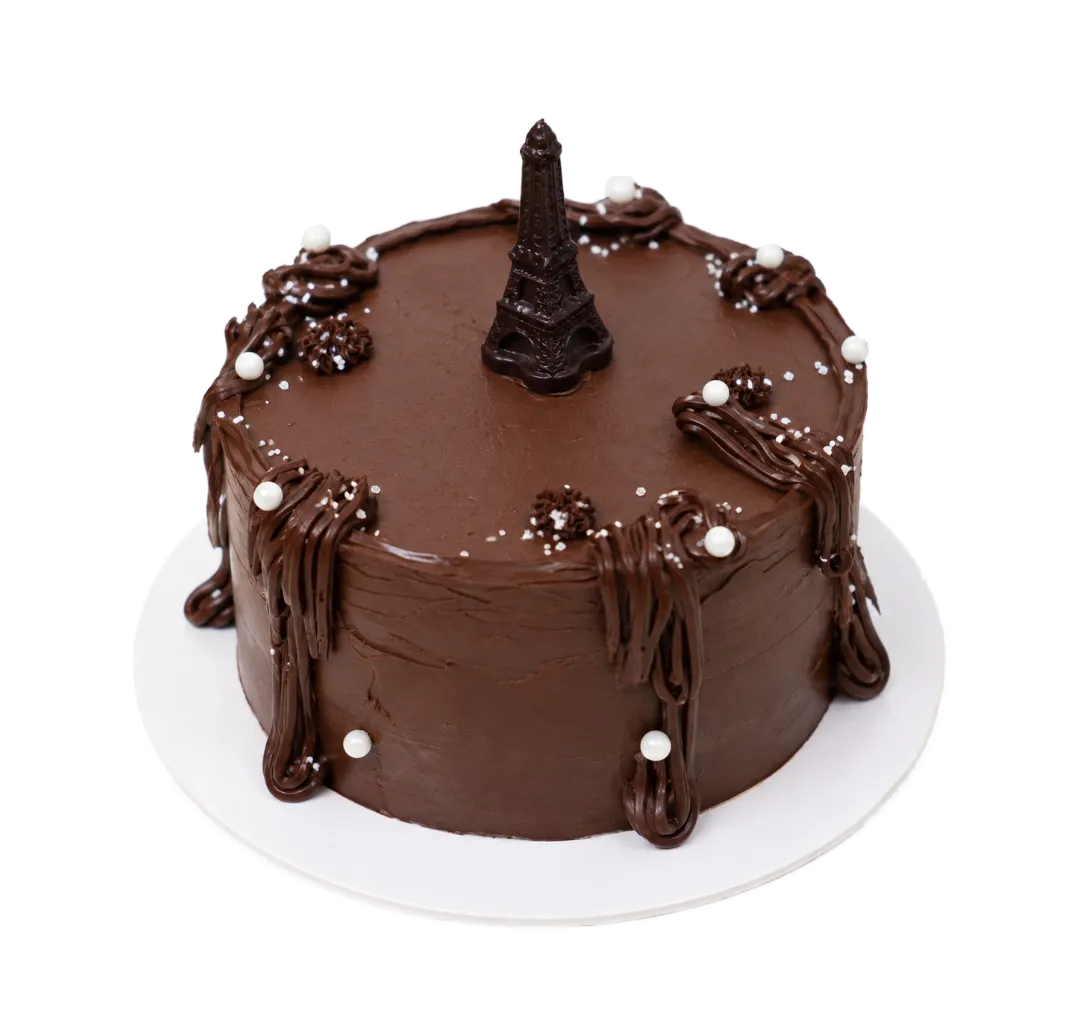
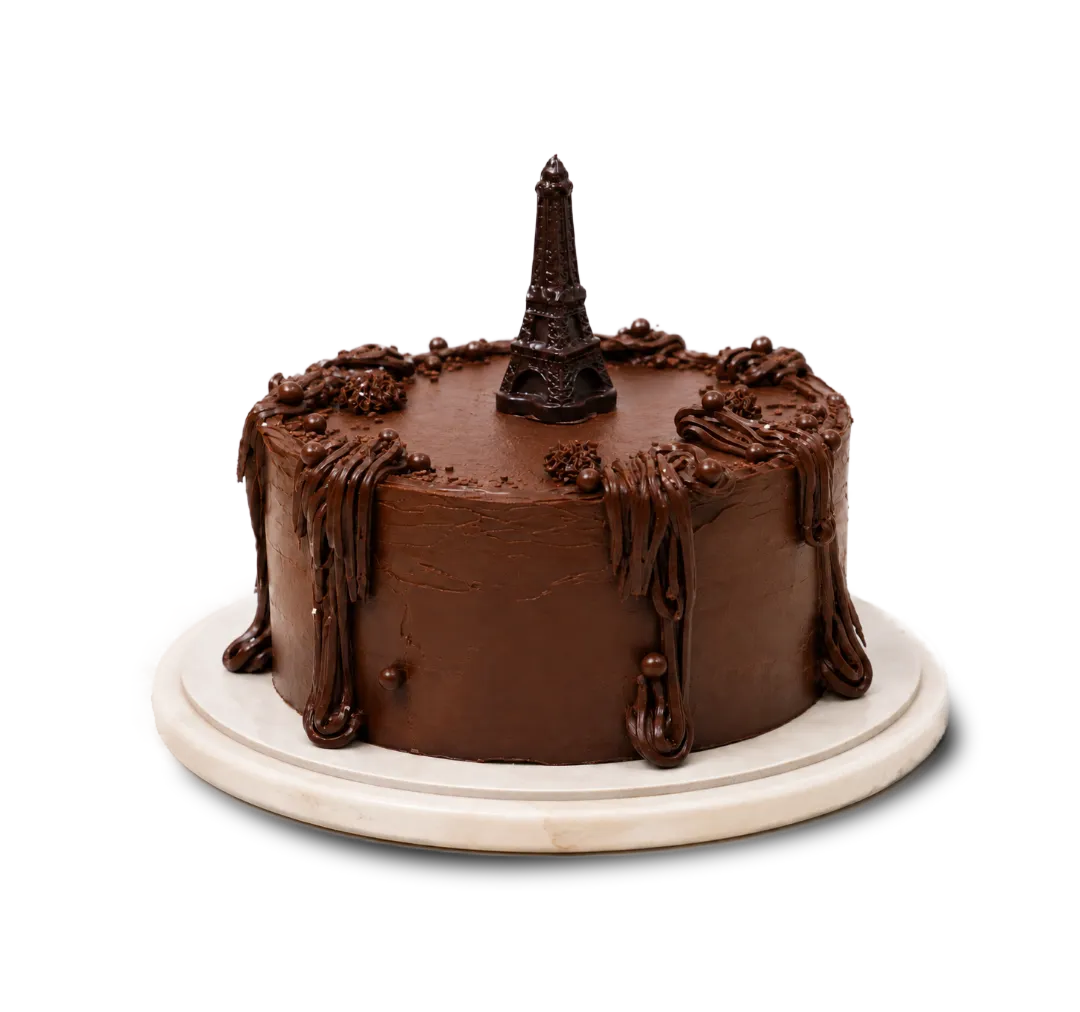
feat(au): refresh catalogue photos and couverture copy

Changed region(s): [[0.1222, 0.1225, 0.9167, 0.919]]

diff --git a/src/pages/HomePage.tsx b/src/pages/HomePage.tsx
@@ -54,7 +54,7 @@ export function HomePage({
   const [quickViewCardId, setQuickViewCardId] = useState<string | null>(null)
   const [quickViewOpener, setQuickViewOpener] = useState<HTMLButtonElement | null>(null)
   const heroCakes = [
-    { image: getPublicCakePage('brownie-cheesecake')?.imagePath, label: 'Brownie Cheesecake', tagKey: 'brownie', className: 'hero-cake-one' },
+    { image: '/products/brownie-cheese-sydney.webp', label: 'Brownie Cheesecake', tagKey: 'brownie', className: 'hero-cake-one' },
     { image: heroCake2Img, label: 'Pave Chocolate Cake', tagKey: 'first', className: 'hero-cake-two' },
     { image: heroCake3Img, label: 'Signature Gâteau au Chocolat', tagKey: 'pound', className: 'hero-cake-three' },
     { image: getPublicCakePage('lemon-cake')?.imagePath, label: 'Lemon Cake', tagKey: 'lemon', className: 'hero-cake-four' },
@@ -202,11 +202,11 @@ export function HomePage({
             <h1 className="hero-title">{language === 'en' && publicHomeContent ? publicHomeContent.h1 : copy.homeTitle}</h1>
             <p className="hero-description">
               {language === 'ko' ? (
-                <><strong>verygood chocolate</strong>이 만드는 소량 생산 케이크를 Melrose Park 픽업 예약으로 만나보세요.</>
+                <><strong>verygood chocolate</strong>이 쇼콜라티에용 커버춰 초콜릿으로 만드는 케이크를 Melrose Park 픽업 예약으로 만나보세요.</>
               ) : publicHomeContent ? (
                 <>{publicHomeContent.hero}<br /><span>{publicHomeContent.pickup}</span></>
               ) : (
-                <>Small-batch cakes made by <strong>verygood chocolate</strong>,<br className="hero-description-break" /> available by pre-order for confirmed Melrose Park pick-up.</>
+                <>Cakes made with chocolatier-grade couverture chocolate by <strong>verygood chocolate</strong>,<br className="hero-description-break" /> available by pre-order for confirmed Melrose Park pick-up.</>
               )}
             </p>
             <div className="hero-actions">
@@ -429,12 +429,12 @@ export function HomePage({
         <section className="content-section cake-information-section" aria-labelledby="sydney-cake-info-title">
           <p className="summary-kicker">{language === 'ko' ? '시드니에서 직접 제작' : 'Made in Sydney'}</p>
           <h2 id="sydney-cake-info-title">
-            {language === 'ko' ? '예약 주문으로 준비하는 소량 제작 초콜릿 케이크' : 'Small-batch chocolate cakes for pre-order'}
+            {language === 'ko' ? '쇼콜라티에용 커버춰 초콜릿으로 만드는 주문 제작 케이크' : 'Chocolate cakes made with chocolatier-grade couverture chocolate'}
           </h2>
           <div className="cake-information-grid">
             <article>
               <h3>{language === 'ko' ? '초콜릿이 중심인 레시피' : 'Chocolate-first recipes'}</h3>
-              <p>{language === 'ko' ? '파베, 바닐라 생크림, 버터크림, 초콜릿 컵케이크, 시그니처 갸또 쇼콜라, 레몬 케이크, 브라우니 치즈케이크를 주문할 수 있어요. 확정된 주문에 맞춰 소량으로 준비합니다.' : 'Choose from Pave, Vanilla Fresh Cream, Buttercream, Chocolate Cupcakes, Signature Gâteau au Chocolat, Lemon Cake and Brownie Cheesecake. Each order is made in a small batch.'}</p>
+              <p>{language === 'ko' ? '파베, 바닐라 생크림, 버터크림, 초콜릿 컵케이크, 시그니처 갸또 쇼콜라, 레몬 케이크, 브라우니 치즈케이크를 주문할 수 있어요. 모든 주문은 쇼콜라티에용 커버춰 초콜릿을 사용해 준비합니다.' : 'Choose from Pave, Vanilla Fresh Cream, Buttercream, Chocolate Cupcakes, Signature Gâteau au Chocolat, Lemon Cake and Brownie Cheesecake. Every order is made with chocolatier-grade couverture chocolate.'}</p>
             </article>
             <article>
               <h3>{language === 'ko' ? '원하는 옵션 선택' : 'Choose your finish'}</h3>

diff --git a/src/CakeDetailPage.tsx b/src/CakeDetailPage.tsx
@@ -48,6 +48,7 @@ const detailImages: Record<CakeDetailImageKey, string> = {
   'pound-previous': '/products/details/chocolate-pound-cake-previous.webp',
   'pound-hero': poundHeroImg,
   'cupcake-side': '/products/chocolate-cupcakes-sydney.webp',
+  'cupcake-detail': '/products/details/chocolate-cupcakes-detail-01.webp',
   'cupcake-hero': cupcakeHeroImg,
   'pave-side': '/products/pave-chocolate-cake-sydney.webp',
   'pave-quick-view': '/products/details/pave-chocolate-cake-quick-view.webp',
@@ -67,12 +68,15 @@ const detailImages: Record<CakeDetailImageKey, string> = {
   'vanilla-side': '/products/vanilla-cake-sydney.webp',
   'vanilla-quick-view': '/products/details/vanillacake-quickview.webp',
   'buttercream-side': '/products/buttercream-cake-sydney.webp',
+  'buttercream-detail': '/products/details/buttercream-cake-detail-01.webp',
   'buttercream-quick-view': '/products/details/buttercream-cake-quick-view.webp',
-  'signature-gateau-side': '/products/chocolate-pound-cake-sydney.webp',
+  'signature-gateau-side': '/products/signature-gateau-au-chocolat-sydney.webp',
+  'signature-gateau-detail': '/products/details/signature-gateau-au-chocolat-detail-01.webp',
   'signature-gateau-quick-view': '/products/details/chocolate-pound-cake-quick-view.webp',
   'signature-gateau-previous': '/products/details/chocolate-pound-cake-previous.webp',
   'signature-gateau-hero': poundHeroImg,
-  'brownie-side': '/products/brownie-cheese-sydney.webp',
+  'brownie-side': '/products/brownie-cheesecake-sydney.webp',
+  'brownie-detail': '/products/details/brownie-cheesecake-detail-01.webp',
   'brownie-quick-view': '/products/details/brownie-cheese-quick-view.webp',
 }
 
@@ -82,6 +86,7 @@ const detailImageDimensions: Record<CakeDetailImageKey, { width: number; height:
   'pound-previous': { width: 1080, height: 1012 },
   'pound-hero': { width: 1080, height: 1012 },
   'cupcake-side': { width: 1080, height: 1012 },
+  'cupcake-detail': { width: 1080, height: 1012 },
   'cupcake-hero': { width: 1448, height: 1086 },
   'pave-side': { width: 1080, height: 1012 },
   'pave-quick-view': { width: 1080, height: 1012 },
@@ -101,12 +106,15 @@ const detailImageDimensions: Record<CakeDetailImageKey, { width: number; height:
   'vanilla-side': { width: 1080, height: 1012 },
   'vanilla-quick-view': { width: 1080, height: 1012 },
   'buttercream-side': { width: 1080, height: 1012 },
+  'buttercream-detail': { width: 1080, height: 1012 },
   'buttercream-quick-view': { width: 1080, height: 1012 },
   'signature-gateau-side': { width: 1080, height: 1012 },
+  'signature-gateau-detail': { width: 1080, height: 1012 },
   'signature-gateau-quick-view': { width: 1080, height: 1012 },
   'signature-gateau-previous': { width: 1080, height: 1012 },
   'signature-gateau-hero': { width: 1080, height: 1012 },
   'brownie-side': { width: 1080, height: 1012 },
+  'brownie-detail': { width: 1080, height: 1012 },
   'brownie-quick-view': { width: 1080, height: 1012 },
 }
 

diff --git a/src/lib/cake-detail.ts b/src/lib/cake-detail.ts
@@ -49,6 +49,7 @@ export type CakeDetailImageKey =
   | 'pound-previous'
   | 'pound-hero'
   | 'cupcake-side'
+  | 'cupcake-detail'
   | 'cupcake-hero'
   | 'pave-side'
   | 'pave-quick-view'
@@ -68,12 +69,15 @@ export type CakeDetailImageKey =
   | 'vanilla-side'
   | 'vanilla-quick-view'
   | 'buttercream-side'
+  | 'buttercream-detail'
   | 'buttercream-quick-view'
   | 'signature-gateau-side'
+  | 'signature-gateau-detail'
   | 'signature-gateau-quick-view'
   | 'signature-gateau-previous'
   | 'signature-gateau-hero'
   | 'brownie-side'
+  | 'brownie-detail'
   | 'brownie-quick-view'
 
 export type CakeDetailSelection = {
@@ -116,10 +120,10 @@ const DETAIL_GALLERIES: Record<CakeCatalogId, readonly CakeDetailImageKey[]> = {
   cheesecake: ['cheesecake-side', 'cheesecake-quick-view', 'cheesecake-previous', 'cheesecake-hero'],
   'fresh-lemon-cupcakes': ['lemon-side', 'lemon-quick-view', 'lemon-previous', 'lemon-hero'],
   'vanilla-fresh-cream': ['vanilla-side', 'vanilla-quick-view'],
-  buttercream: ['buttercream-side', 'buttercream-quick-view'],
-  cupcake: ['cupcake-side', 'cupcake-hero'],
-  'signature-gateau': ['signature-gateau-side', 'signature-gateau-quick-view', 'signature-gateau-previous', 'signature-gateau-hero'],
-  'brownie-cheesecake': ['brownie-side', 'brownie-quick-view'],
+  buttercream: ['buttercream-side', 'buttercream-detail', 'buttercream-quick-view'],
+  cupcake: ['cupcake-side', 'cupcake-detail', 'cupcake-hero'],
+  'signature-gateau': ['signature-gateau-side', 'signature-gateau-detail', 'signature-gateau-quick-view', 'signature-gateau-previous', 'signature-gateau-hero'],
+  'brownie-cheesecake': ['brownie-side', 'brownie-detail', 'brownie-quick-view'],
 }
 
 const LEGACY_CAKE_DETAILS = {
@@ -150,7 +154,7 @@ const DETAIL_OPERATION_COPY: Record<Language, {
   accordions: readonly { title: string; body: string }[]
 }> = {
   en: {
-    trustPoints: ['Small-batch', 'Made to order', 'Melrose Park pick-up'],
+    trustPoints: ['Chocolatier-grade couverture', 'Made to order', 'Melrose Park pick-up'],
     accordions: [
       {
         title: 'How ordering works',
@@ -167,7 +171,7 @@ const DETAIL_OPERATION_COPY: Record<Language, {
     ],
   },
   ko: {
-    trustPoints: ['소량 제작', '주문 후 제작', 'Melrose Park 픽업'],
+    trustPoints: ['쇼콜라티에용 커버춰 초콜릿', '주문 후 제작', 'Melrose Park 픽업'],
     accordions: [
       {
         title: '주문 방법',

diff --git a/index.html b/index.html
@@ -11,7 +11,7 @@
     <title>Chocolate Cakes Sydney | Melrose Park Pickup | verygood chocolate</title>
     <meta
       name="description"
-      content="Order small-batch cakes for pre-arranged pickup in Melrose Park, Sydney. Pave, fresh cream, buttercream, cupcakes, gâteau au chocolat, lemon cake and brownie cheesecake from AUD 31.00."
+      content="Order cakes made with chocolatier-grade couverture chocolate for pre-arranged pickup in Melrose Park, Sydney. Pave, fresh cream, buttercream, cupcakes, gâteau au chocolat, lemon cake and brownie cheesecake from AUD 31.00."
     />
     <meta name="robots" content="index, follow" />
     <link rel="canonical" href="https://au.verygood-chocolate.com/" />
@@ -20,7 +20,7 @@
     <meta property="og:title" content="Chocolate Cakes Sydney | Melrose Park Pickup | verygood chocolate" />
     <meta
       property="og:description"
-      content="Order small-batch cakes for pre-arranged pickup in Melrose Park, Sydney. Pave, fresh cream, buttercream, cupcakes, gâteau au chocolat, lemon cake and brownie cheesecake from AUD 31.00."
+      content="Order cakes made with chocolatier-grade couverture chocolate for pre-arranged pickup in Melrose Park, Sydney. Pave, fresh cream, buttercream, cupcakes, gâteau au chocolat, lemon cake and brownie cheesecake from AUD 31.00."
     />
     <meta property="og:url" content="https://au.verygood-chocolate.com/" />
     <meta property="og:image" content="https://au.verygood-chocolate.com/og-image.jpg" />
@@ -31,7 +31,7 @@
     <meta name="twitter:title" content="Chocolate Cakes Sydney | Melrose Park Pickup | verygood chocolate" />
     <meta
       name="twitter:description"
-      content="Order small-batch cakes for pre-arranged pickup in Melrose Park, Sydney. Pave, fresh cream, buttercream, cupcakes, gâteau au chocolat, lemon cake and brownie cheesecake from AUD 31.00."
+      content="Order cakes made with chocolatier-grade couverture chocolate for pre-arranged pickup in Melrose Park, Sydney. Pave, fresh cream, buttercream, cupcakes, gâteau au chocolat, lemon cake and brownie cheesecake from AUD 31.00."
     />
     <meta name="twitter:image" content="https://au.verygood-chocolate.com/og-image.jpg" />
   </head>

diff --git a/tests/cake-seo.test.ts b/tests/cake-seo.test.ts
@@ -41,7 +41,7 @@ test('home and seven sale cake detail routes use AU self canonicals', () => {
 test('homepage owns the approved Sydney chocolate cake metadata', () => {
   const config = getSeoConfig('/')
   assert.equal(config.title, 'Chocolate Cakes Sydney | Melrose Park Pickup | verygood chocolate')
-  assert.equal(config.description, 'Order small-batch cakes for pre-arranged pickup in Melrose Park, Sydney. Pave, fresh cream, buttercream, cupcakes, gâteau au chocolat, lemon cake and brownie cheesecake from AUD 31.00.')
+  assert.equal(config.description, 'Order cakes made with chocolatier-grade couverture chocolate for pre-arranged pickup in Melrose Park, Sydney. Pave, fresh cream, buttercream, cupcakes, gâteau au chocolat, lemon cake and brownie cheesecake from AUD 31.00.')
   assert.deepEqual(structuredTypes('/'), ['Organization', 'WebSite', 'ItemList', 'FAQPage'])
   const organization = config.structuredData?.find((entry) => entry['@type'] === 'Organization')
   const faq = config.structuredData?.find((entry) => entry['@type'] === 'FAQPage')
@@ -194,10 +194,19 @@ test('Brownie Product publishes the supplied Brownie image with its actual dimen
   const config = getSeoConfig('/cakes/brownie-cheesecake')
   const product = config.structuredData?.find((entry) => entry['@type'] === 'Product')
   assert.ok(product)
-  const image = `${SITE_URL}/products/brownie-cheese-sydney.webp`
+  const image = `${SITE_URL}/products/brownie-cheesecake-sydney.webp`
   assert.equal(config.image, image)
   assert.equal(config.imageWidth, 1080)
   assert.equal(config.imageHeight, 1012)
+  assert.equal(product.image, image)
+})
+
+test('Signature Product publishes its descriptive canonical product image', () => {
+  const config = getSeoConfig('/cakes/signature-gateau-au-chocolat')
+  const product = config.structuredData?.find((entry) => entry['@type'] === 'Product')
+  assert.ok(product)
+  const image = `${SITE_URL}/products/signature-gateau-au-chocolat-sydney.webp`
+  assert.equal(config.image, image)
   assert.equal(product.image, image)
 })
 

diff --git a/tests/cake-options.test.ts b/tests/cake-options.test.ts
@@ -58,6 +58,15 @@ import {
   isCakePickupDateUnavailable,
 } from '../src/lib/class-utils.js'
 import { getProductFeatures, getProductText } from '../src/lib/i18n.js'
+import { normalizeAuDailyLimitText } from '../src/lib/legacy-settings.js'
+
+test('legacy AU small-batch settings copy is replaced without overwriting custom admin copy', () => {
+  assert.equal(
+    normalizeAuDailyLimitText('Small-batch cakes, limited daily availability'),
+    'Made to order with chocolatier-grade couverture chocolate',
+  )
+  assert.equal(normalizeAuDailyLimitText('Custom seasonal announcement'), 'Custom seasonal announcement')
+})
 
 test('AU cake chooser follows the final seven-product order and keeps Basque legacy-only', () => {
   assert.deepEqual(
@@ -720,7 +729,7 @@ test('AU cake confirmation message matches Jenny request copy', () => {
     weekdayClose: '17:00',
     weekendOpen: '10:00',
     weekendClose: '16:00',
-    dailyLimitText: 'Small-batch cakes, limited daily availability',
+    dailyLimitText: 'Made to order with chocolatier-grade couverture chocolate',
     reservationNotice: 'We will confirm availability after your request. Payment details and final confirmation will follow by message.',
     pickupNotice: 'Street pick-up near 1 Bundil Blvd, Melrose Park. There is a small playground and seating nearby. Parking can be limited, so Jenny will bring the cake down to you.',
     storeAddress: 'Street pick-up near 1 Bundil Blvd, Melrose Park. Small playground/seating nearby; Jenny will bring the cake down to you.',

diff --git a/tests/cake-detail.test.ts b/tests/cake-detail.test.ts
@@ -30,12 +30,12 @@ test('seven public sale slugs resolve to independent reusable detail contracts',
     'lemon-cake',
     'brownie-cheesecake',
   ])
-  assert.deepEqual(details.map((detail) => detail?.gallery.length), [7, 2, 2, 2, 4, 4, 2])
+  assert.deepEqual(details.map((detail) => detail?.gallery.length), [7, 2, 3, 3, 5, 4, 3])
   assert.deepEqual(details[0]?.gallery.slice(0, 4), ['pave-side', 'pave-quick-view', 'pave-previous', 'pave-hero'])
-  assert.deepEqual(details[2]?.gallery, ['buttercream-side', 'buttercream-quick-view'])
-  assert.deepEqual(details[3]?.gallery, ['cupcake-side', 'cupcake-hero'])
-  assert.deepEqual(details[4]?.gallery, ['signature-gateau-side', 'signature-gateau-quick-view', 'signature-gateau-previous', 'signature-gateau-hero'])
-  assert.deepEqual(details[6]?.gallery, ['brownie-side', 'brownie-quick-view'])
+  assert.deepEqual(details[2]?.gallery, ['buttercream-side', 'buttercream-detail', 'buttercream-quick-view'])
+  assert.deepEqual(details[3]?.gallery, ['cupcake-side', 'cupcake-detail', 'cupcake-hero'])
+  assert.deepEqual(details[4]?.gallery, ['signature-gateau-side', 'signature-gateau-detail', 'signature-gateau-quick-view', 'signature-gateau-previous', 'signature-gateau-hero'])
+  assert.deepEqual(details[6]?.gallery, ['brownie-side', 'brownie-detail', 'brownie-quick-view'])
   assert.equal(details[2]?.isPhotoComingSoon, false)
   assert.equal(details[6]?.isPhotoComingSoon, false)
   assert.equal(getCakeDetailBySlug('not-a-cake', 'en'), null)

diff --git a/src/lib/market.ts b/src/lib/market.ts
@@ -141,7 +141,7 @@ const AU_SETTINGS: StoreSettings = {
   weekdayClose: '20:00',
   weekendOpen: '10:00',
   weekendClose: '17:00',
-  dailyLimitText: 'Small-batch cakes, limited daily availability',
+  dailyLimitText: 'Made to order with chocolatier-grade couverture chocolate',
   reservationNotice: 'We will confirm availability after your request. Payment details and final confirmation will follow by message.',
   pickupNotice: '',
   storeAddress: 'Street pick-up near 1 Bundil Blvd, Melrose Park. Small playground/seating nearby; Jenny will bring the cake down to you.',
@@ -558,7 +558,7 @@ export const MARKET_CONFIG: Record<Market, MarketConfig> = {
       brandName: 'Verygood Chocolate',
       productName: 'Gâteau au Chocolat',
       homeTitle: 'Sydney Made-to-Order Cakes',
-      homeDescription: 'Small-batch cakes made by Very Good Chocolate, available by pre-order for confirmed Melrose Park pick-up.',
+      homeDescription: 'Cakes made with chocolatier-grade couverture chocolate by Very Good Chocolate, available by pre-order for confirmed Melrose Park pick-up.',
       reserveCta: 'Order for weekend pick-up',
       lookupNav: 'Find booking',
       adminNav: 'Admin',

diff --git a/src/lib/i18n.ts b/src/lib/i18n.ts
@@ -206,14 +206,14 @@ export function cakeCopy(language: Language) {
       announcement: '케이크 픽업 토·일 10:00–17:00',
       brandName: 'Verygood Chocolate',
       homeTitle: '시드니 주문 제작 케이크',
-      homeDescription: 'Very Good Chocolate이 만드는 소량 생산 케이크를 Melrose Park 픽업 예약으로 만나보세요.',
+      homeDescription: 'Very Good Chocolate이 쇼콜라티에용 커버춰 초콜릿으로 만드는 케이크를 Melrose Park 픽업 예약으로 만나보세요.',
       reserveCta: '주말 픽업 주문하기',
       lookupNav: '주문 조회',
       adminNav: 'Admin',
       kidsNav: 'Kids Class',
       productSectionTitle: '케이크 선택',
       reservationGuideTitle: '주문 방법',
-      dailyLimitText: '매일 소량으로 준비합니다',
+      dailyLimitText: '쇼콜라티에용 커버춰 초콜릿으로 주문 제작합니다',
       price: '가격',
       options: '옵션',
       pickupLocationKicker: '픽업 장소',

diff --git a/tests/cake-catalog.test.ts b/tests/cake-catalog.test.ts
@@ -136,8 +136,9 @@ test('catalog cards expose separated Cupcake and Signature names in English and 
   assert.equal(english.find((card) => card.id === 'buttercream')?.isPhotoComingSoon, false)
   assert.equal(english.find((card) => card.id === 'buttercream')?.imagePath, '/products/buttercream-cake-sydney.webp')
   assert.equal(english.find((card) => card.id === 'brownie-cheesecake')?.isPhotoComingSoon, false)
-  assert.equal(english.find((card) => card.id === 'brownie-cheesecake')?.imagePath, '/products/brownie-cheese-sydney.webp')
+  assert.equal(english.find((card) => card.id === 'brownie-cheesecake')?.imagePath, '/products/brownie-cheesecake-sydney.webp')
   assert.equal(english.find((card) => card.id === 'cupcake')?.imagePath, '/products/chocolate-cupcakes-sydney.webp')
+  assert.equal(english.find((card) => card.id === 'signature-gateau')?.imagePath, '/products/signature-gateau-au-chocolat-sydney.webp')
   assert.deepEqual(
     english.map((card) => [card.id, card.priceLabel]),
     [

diff --git a/src/lib/repository.ts b/src/lib/repository.ts
@@ -1,6 +1,7 @@
 import { AppwriteException, ExecutionMethod, ID, OAuthProvider, Query, type Models } from 'appwrite'
 import { account, appwriteConfig, databases, functions, isAppwriteConfigured } from './appwrite'
 import { MARKET } from './market'
+import { normalizeAuDailyLimitText } from './legacy-settings'
 import { isStoredCakeOrderProductId } from '../../appwrite-functions/reservation-api/src/active-cake-products.js'
 import {
   DEFAULT_CHOCOLATE_TYPE,
@@ -599,6 +600,7 @@ function normalizeSettings(settings?: Partial<StoreSettings> | null): StoreSetti
   }
 
   if (MARKET === 'AU') {
+    merged.dailyLimitText = normalizeAuDailyLimitText(merged.dailyLimitText)
     if (merged.bankName === 'Payment details TBC') merged.bankName = DEFAULT_SETTINGS.bankName
     if (merged.bankAccount === 'Confirm with Jenny') merged.bankAccount = DEFAULT_SETTINGS.bankAccount
     if (merged.accountHolder === 'Verygood Chocolate' || merged.accountHolder === 'verygood') {

diff --git a/src/components/SiteChrome.tsx b/src/components/SiteChrome.tsx
@@ -197,7 +197,7 @@ export function SiteFooter({
         reviews: '후기',
         lookup: '주문 조회',
         location: '쇼콜라티에가 주문에 맞춰 만드는 케이크',
-        description: '초콜릿을 중심으로 소량씩 만들고, 멜로즈 파크에서 손으로 정성껏 완성합니다.',
+        description: '쇼콜라티에용 커버춰 초콜릿으로 만들고, 멜로즈 파크에서 손으로 정성껏 완성합니다.',
       }
     : {
         service: 'Cake orders & kids classes',
@@ -206,7 +206,7 @@ export function SiteFooter({
         reviews: 'Reviews',
         lookup: 'Find my order',
         location: 'Made to order by our chocolatier',
-        description: 'Chocolate-first cakes, prepared in small batches and finished by hand in Melrose Park.',
+        description: 'Chocolate-first cakes made with chocolatier-grade couverture chocolate and finished by hand in Melrose Park.',
       }
 
   return (
